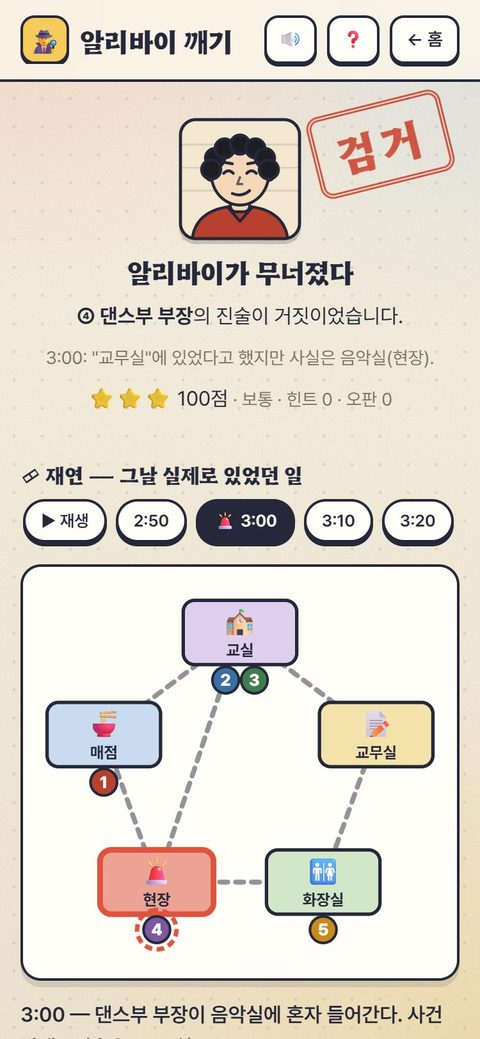
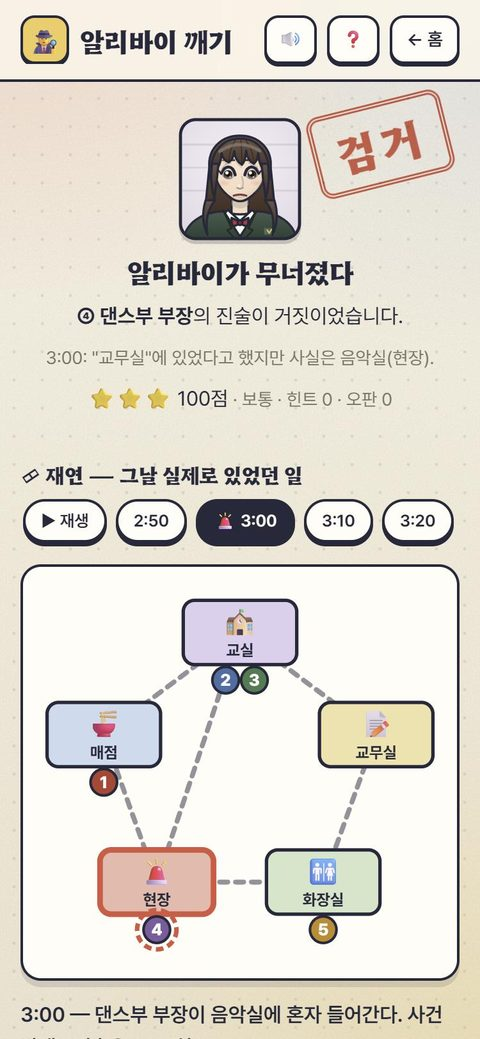
설명 화면 사진을 새 얼굴로 다시 찍음, 한 사건 안의 용의자끼리 닮지 않게

diff --git a/js/portrait.js b/js/portrait.js
@@ -73,22 +73,26 @@
     return d;
   }
 
-  function markup(seed, name) {
+  // cast = { base, slot }: 같은 사건 안에서 몇 번째 사람인지. 주어지면 성별·머리색·머리 모양을 돌려 가며 골라
+  // 한 사건의 용의자들이 서로 닮지 않게 한다(없으면 씨앗으로 무작위).
+  function markup(seed, name, cast) {
     const r = rng(hashString('face:' + seed));
     const pick = a => a[Math.floor(r() * a.length)];
     const jit = k => (r() - 0.5) * 2 * k;
     const tr = traitsOf(name);
     const id = 'pf' + (uid++);
+    const C = cast && Number.isInteger(cast.slot) ? cast : null;
+    const turn = (a, k = 1) => { r(); return C ? a[(C.base + C.slot * k) % a.length] : a[Math.floor(r() * a.length)]; };
     const skin = pick(SKIN);
-    const hair = tr.elder ? pick(GRAY) : pick(HAIR);
+    const hair = tr.elder ? pick(GRAY) : turn(HAIR, 3);
     const iris = pick(IRIS);
-    const bg = pick(BG);
-    const fem = tr.fem ? true : tr.masc ? false : r() < 0.5;
+    const bg = turn(BG, 1);
+    const fem = tr.fem ? true : tr.masc ? false : C ? (C.base + C.slot) % 2 === 0 : r() < 0.5;
     const age = tr.elder ? 'elder' : tr.child ? 'child' : tr.adult ? 'adult' : tr.teen ? 'teen' : pick(['teen', 'adult']);
     const style = tr.elder && !fem ? 'thin'
       : tr.elder ? pick(['bob', 'bun', 'curly'])
-      : fem ? pick(['long', 'long', 'bob', 'pony', 'bun', 'wave'])
-      : pick(['short', 'short', 'swept', 'swept', 'mid', 'mid', age === 'adult' ? 'buzz' : 'short']);
+      : fem ? turn(['long', 'bob', 'pony', 'wave', 'bun'], 3)
+      : turn(['short', 'swept', 'mid', age === 'adult' ? 'buzz' : 'swept'], 3);
     const outfit = tr.outfit || (tr.child ? pick(['tee', 'hoodie']) : pick(['tee', 'hoodie', 'knit', 'shirt']));
     const cloth = outfit === 'suit' ? pick(SUIT) : outfit === 'uniform' ? pick(UNIFORM) : outfit === 'scrub' ? pick(['#f4f6f8', '#a9d8cf', '#9cc3e6']) : pick(CLOTH);
     const glasses = r() < (tr.elder ? 0.55 : tr.glassesBias ? 0.5 : 0.15);
@@ -325,16 +329,21 @@
   }
 
   // size: 픽셀. 사건마다 다른 얼굴이 되도록 seed 는 보통 `${case.id}:${suspect.id}`.
-  function portrait(seed, name, size = 48) {
+  function portrait(seed, name, size = 48, cast) {
     const el = document.createElement('span');
     el.className = 'portrait';
     el.style.width = el.style.height = size + 'px';
-    el.innerHTML = markup(seed, name);
+    el.innerHTML = markup(seed, name, cast);
     return el;
   }
 
   // 사건의 용의자 얼굴. 같은 사건·같은 용의자면 어느 모드에서나 같은 얼굴이 나온다.
-  const face = (C, s, size) => portrait(((C && C.id) || 'case') + ':' + s.id, s.name, size);
+  // 사건 안의 순서(slot)로 머리색·머리 모양·성별을 돌려 써서 한 사건의 용의자끼리 닮지 않게 한다.
+  const castOf = (C, s) => {
+    const i = C && Array.isArray(C.suspects) ? C.suspects.findIndex(x => x.id === s.id) : -1;
+    return i < 0 ? null : { base: hashString('cast:' + C.id) % 97, slot: i };
+  };
+  const face = (C, s, size) => portrait(((C && C.id) || 'case') + ':' + s.id, s.name, size, castOf(C, s));
 
   DO.svg = svg;
   DO.face = face;

diff --git a/js/modes/alibi.js b/js/modes/alibi.js
@@ -45,7 +45,7 @@
 
       const stop = () => { if (timer) { clearInterval(timer); timer = null; } };
       const name = i => p.suspects[i].name;
-      const face = (i, size) => DO.portrait(C.id + ':' + p.suspects[i].id, name(i), size);
+      const face = (i, size) => DO.face(C, p.suspects[i], size);
       const num = i => h('span', { class: 'num', style: `background:${TOKEN[i]}` }, String(i + 1));
       const short = pl => (pl.scene ? '현장' : pl.name.slice(0, 3));
       const placeLabel = j => `${p.places[j].emoji} ${p.places[j].name}`;
@@ -60,7 +60,7 @@
           h('h2', {}, C.title),
           h('div', { class: 'card' }, h('p', {}, C.intro)),
           h('div', { class: 'lineup' }, C.suspects.map(s => h('div', { class: 'lineup-item' },
-            DO.portrait(C.id + ':' + s.id, s.name, 56), h('span', {}, s.name)))),
+            DO.face(C, s, 56), h('span', {}, s.name)))),
           h('div', { class: 'card' },
             h('h3', {}, '수사 규칙'),
             h('p', { class: 'muted' }, '· 용의자마다 "몇 시에 어디 있었다"는 진술이 표로 주어집니다.'),

diff --git a/CLAUDE.md b/CLAUDE.md
@@ -27,6 +27,8 @@ js/core.js            DO 네임스페이스: 모드/사건 레지스트리, h()/
 js/portrait.js        절차적 초상화. DO.portrait(seed, name, size), DO.face(C, suspect, size) → <span class="portrait">(SVG).
                       웹툰풍 반실사: 피부·옷·머리 그라데이션, 눈(홍채 그라데이션·반사광·속눈썹·쌍꺼풀), 앞머리 가닥(fringePath)·머릿결·윤기, 얼굴 옆으로 내려오는 머리.
                       씨앗이 같으면 같은 얼굴. 이름 속 단어로 나이대(child/teen/adult/elder)·성별 느낌·머리 모양·모자·안경·옷(교복 재킷+넥타이/리본, 정장, 작업복, 간호복, 카디건, 티·후드·니트)을 맞춘다.
+                      DO.face 는 사건 안의 순서(cast = {base, slot})로 성별(이름으로 안 정해질 때)·머리색·머리 모양·배경색을 돌려 써서 한 사건의 용의자끼리 닮지 않게 한다.
+                      그래서 용의자 얼굴은 DO.portrait 대신 꼭 DO.face(C, s, 크기) 로(모드마다 같은 얼굴이 나오게).
                       한글 이름엔 \b 가 안 먹으니 끝맺음은 $ 로 쓸 것. 얼굴 하나 0.3ms 정도. 작은 크기(40px)에서도 알아보이는지 확인할 것. DO.svg() 도 여기.
 js/sfx.js             소리 바탕. 공용 AudioContext·버스(효과음 / 배경음 → 먹먹 필터 → duck → 압축기), 잔향, 합성 악기 DO.synth
                       (keys vibe flute marimba bass pluck ride brush shaker snap rim tick pad heart drone trem brass horn hum rain drip hiss beep pan
